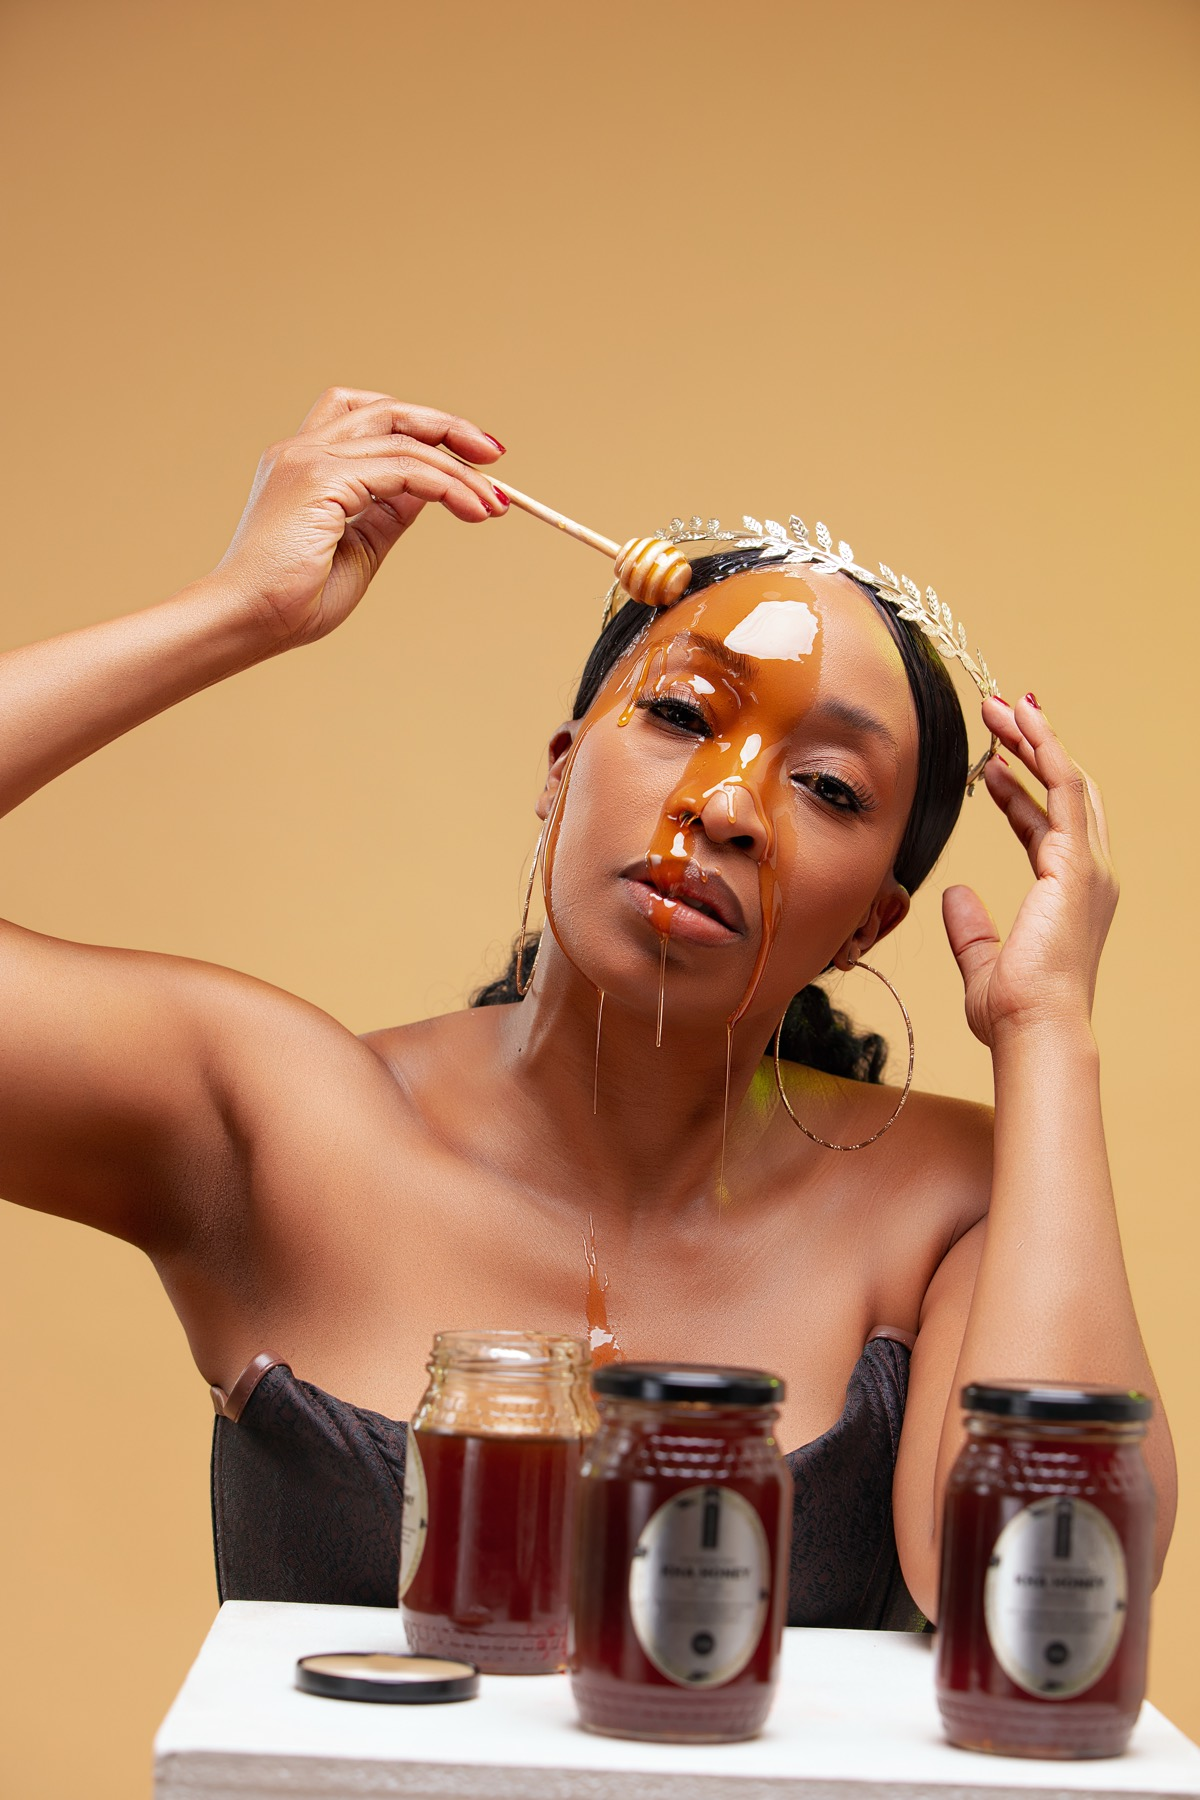
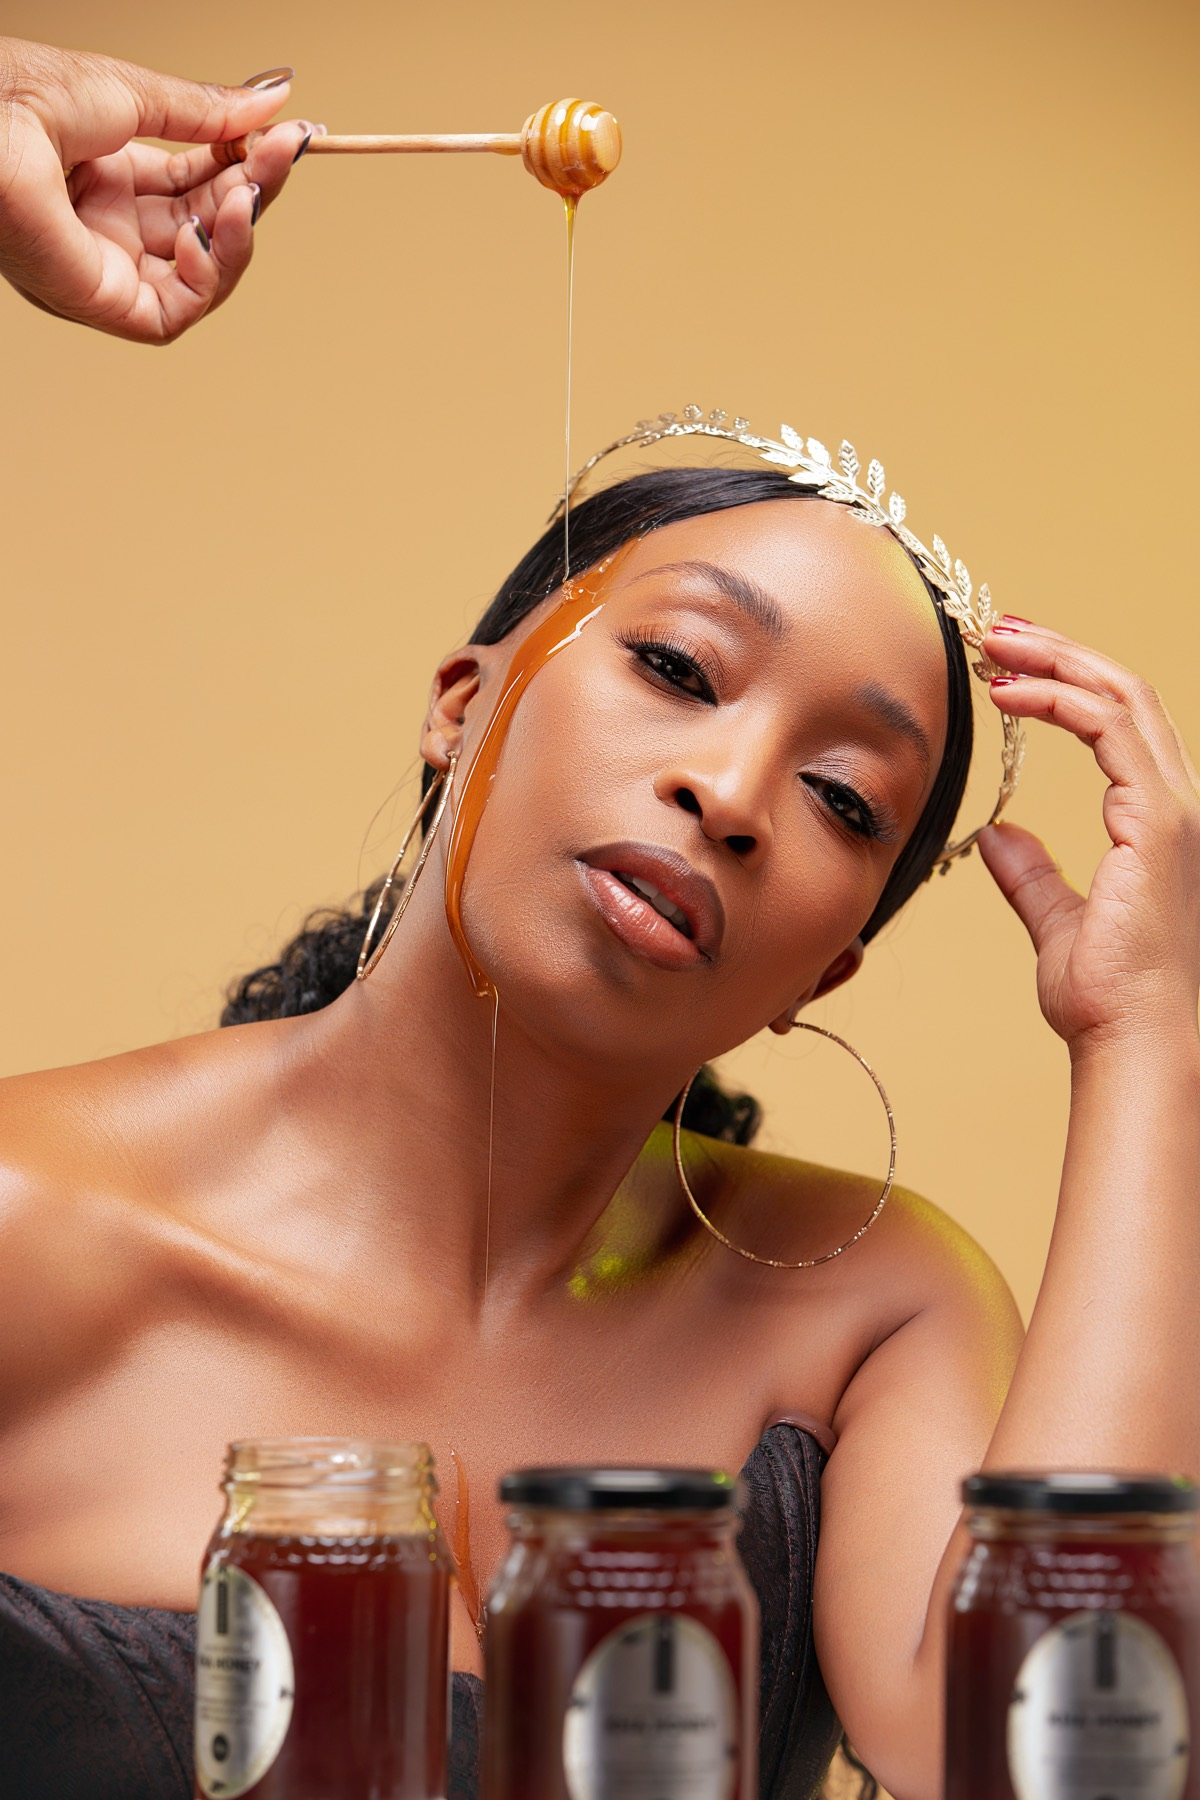
Use shoot frame 1520 for the founder brand band
Swap the "Rooted in Realness" portrait to the exact frame requested (1520):
founder in the gold laurel crown, honey drizzle, KhaHoney jars. Slightly
taller column (lg 46rem) and object-position center 28% so the honey
string, crown and full face all sit in frame.

diff --git a/src/components/home/BrandCampaign.tsx b/src/components/home/BrandCampaign.tsx
@@ -11,13 +11,13 @@ export function BrandCampaign() {
   return (
     <section className="relative overflow-hidden bg-kelp-950 text-sand-50">
       <div className="grid lg:grid-cols-2">
-        <div className="relative min-h-[26rem] lg:min-h-[40rem]">
+        <div className="relative min-h-[28rem] lg:min-h-[46rem]">
           <Image
             src="/images/shoot/brand-honey.jpg"
             alt="Founder Khabonina Qubeka in a gold laurel crown with the KhaHoney range"
             fill
             sizes="(max-width: 1024px) 100vw, 50vw"
-            className="object-cover object-[center_22%]"
+            className="object-cover object-[center_28%]"
           />
           {/* soften the photo edge into the copy panel */}
           <div

diff --git a/public/images/CREDITS.md b/public/images/CREDITS.md
@@ -17,7 +17,7 @@ product shoot plus the edited product stills. Web-optimised exports live in
 | beard-duo.jpg | Media hero |
 | body-wash.jpg, mens-portrait.jpg | Held for the men's range |
 
-`brand-honey.jpg` (May 2026 shoot, frame 1539) anchors the "Rooted in Realness" brand band — founder Khabonina Qubeka in the gold laurel crown with the KhaHoney range.
+`brand-honey.jpg` (May 2026 shoot, frame 1520) anchors the "Rooted in Realness" brand band — founder Khabonina Qubeka in the gold laurel crown with the KhaHoney range.
 
 `/images/brand/khabo.jpg` is the founder campaign photograph carried over from
 the previous khanatural.com site, and the Our Brand page keeps its migrated
